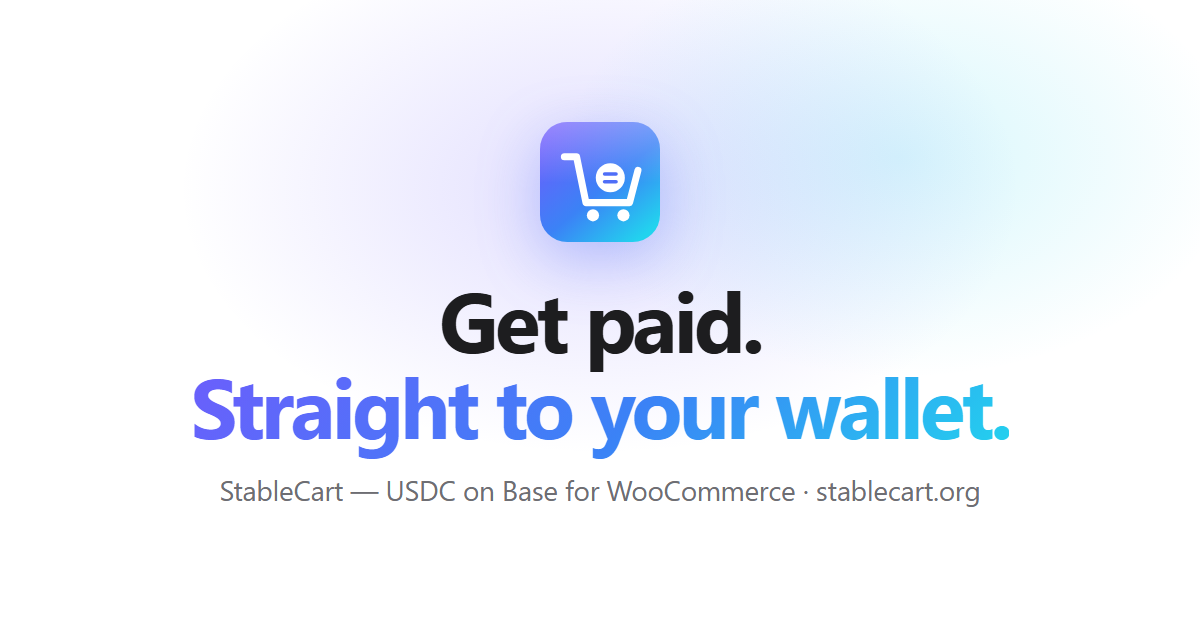
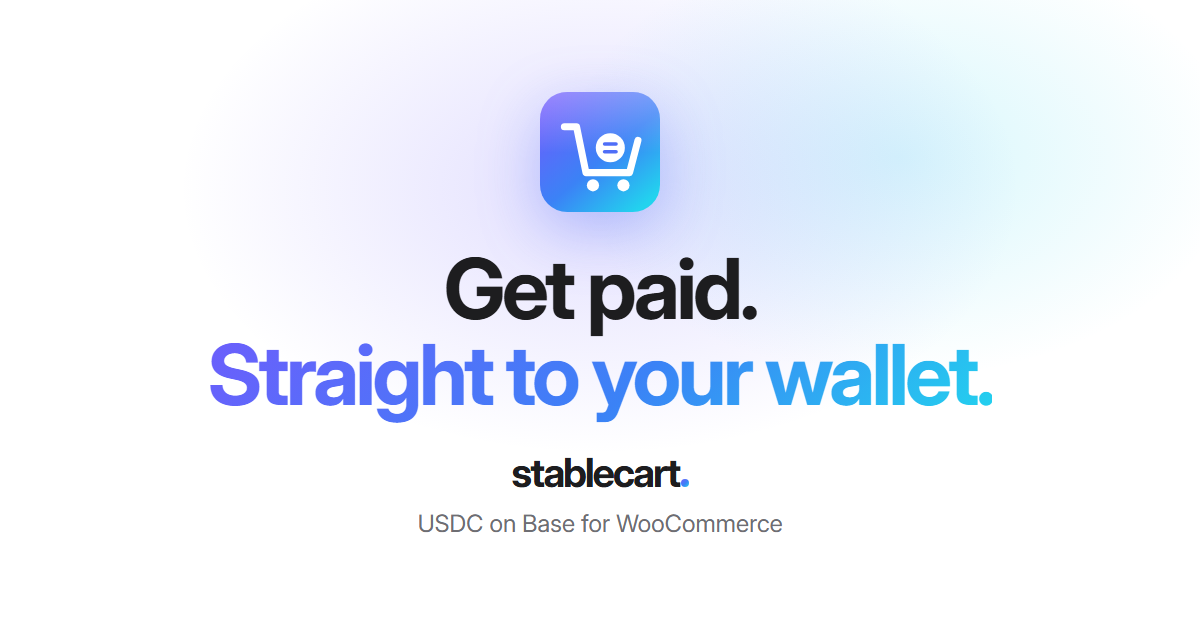
Adopt the 'stablecart.' wordmark
Lowercase, tightly tracked Inter Bold with a gradient full stop on the
baseline. It replaces the icon-plus-name lockup in the nav, headlines
the closing call to action, signs the footer, and is used on the
WordPress.org banners and the Open Graph image. The app-style icon
stays for the favicon, touch icon and plugin icon.

Changed region(s): [[0.1542, 0.3921, 0.8633, 0.8444], [0.4317, 0.1206, 0.555, 0.3921]]

diff --git a/basepay/site/index.html b/basepay/site/index.html
@@ -58,9 +58,11 @@
         background: rgba(250, 250, 252, 0.8);
       }
       header.nav .wrap { display: flex; align-items: center; justify-content: space-between; height: 48px; gap: 16px; }
-      .brand { display: flex; align-items: center; gap: 9px; color: var(--ink); font-weight: 600; font-size: 16px; letter-spacing: -0.02em; }
+      /* Wordmark: lowercase, tight, and a gradient full stop on the baseline. */
+      .wordmark { color: #1d1d1f; font-weight: 700; letter-spacing: -0.045em; line-height: 1; white-space: nowrap; }
+      .wordmark i { display: inline-block; width: .2em; height: .2em; border-radius: 50%; background: var(--grad); margin-left: .045em; vertical-align: baseline; }
+      .brand { font-size: 19px; }
       .brand:hover { text-decoration: none; }
-      .brand img { width: 22px; height: 22px; }
       nav.links { display: flex; gap: 34px; font-size: 12.5px; font-weight: 400; letter-spacing: -0.01em; }
       nav.links a, .nav-cta { color: #1d1d1f; opacity: .88; transition: opacity .2s; }
       nav.links a:hover, .nav-cta:hover { opacity: 1; text-decoration: none; color: #000; }
@@ -252,7 +254,7 @@
 
       /* final */
       .final { text-align: center; padding: 140px 0; }
-      .final img { width: 96px; height: 96px; margin-bottom: 24px; filter: drop-shadow(0 20px 40px rgba(79, 110, 247, .35)); }
+
 
       footer.site { border-top: 1px solid var(--line); padding: 28px 0 40px; font-size: 12.5px; color: var(--ink-2); }
       footer.site .wrap { display: flex; justify-content: space-between; gap: 16px; flex-wrap: wrap; }
@@ -273,7 +275,7 @@
     <a class="skip" href="#main">Skip to content</a>
     <header class="nav">
       <div class="wrap">
-        <a class="brand" href="/"><img src="/icon.svg" alt="" width="22" height="22" />StableCart</a>
+        <a class="brand wordmark" href="/" aria-label="StableCart home">stablecart<i></i></a>
         <nav class="links" aria-label="Main">
           <a href="#how">How it works</a>
           <a href="#custody">Custody</a>
@@ -467,7 +469,7 @@
 
       <section class="final">
         <div class="wrap">
-          <img class="reveal" src="/icon.svg" alt="" width="96" height="96" />
+          <div class="wordmark reveal" style="font-size:clamp(56px,9vw,104px);margin-bottom:34px" aria-hidden="true">stablecart<i></i></div>
           <h2 class="reveal" style="margin-left:auto;margin-right:auto">Start taking USDC today.</h2>
           <p class="body reveal" style="margin-left:auto;margin-right:auto">Download the plugin, paste your wallet, save. That's it.</p>
           <div class="cta-row reveal">
@@ -480,7 +482,7 @@
 
     <footer class="site">
       <div class="wrap">
-        <span>© 2026 Fantom Studio · StableCart is non-custodial: funds move directly from buyer to merchant.</span>
+        <span><span class="wordmark" style="font-size:15px;margin-right:10px">stablecart<i></i></span>© 2026 Fantom Studio · Non-custodial: funds move directly from buyer to merchant.</span>
         <span><a href="/demo/">Live demo</a> · <a href="mailto:fedja@rugbuster.io">fedja@rugbuster.io</a></span>
       </div>
     </footer>
